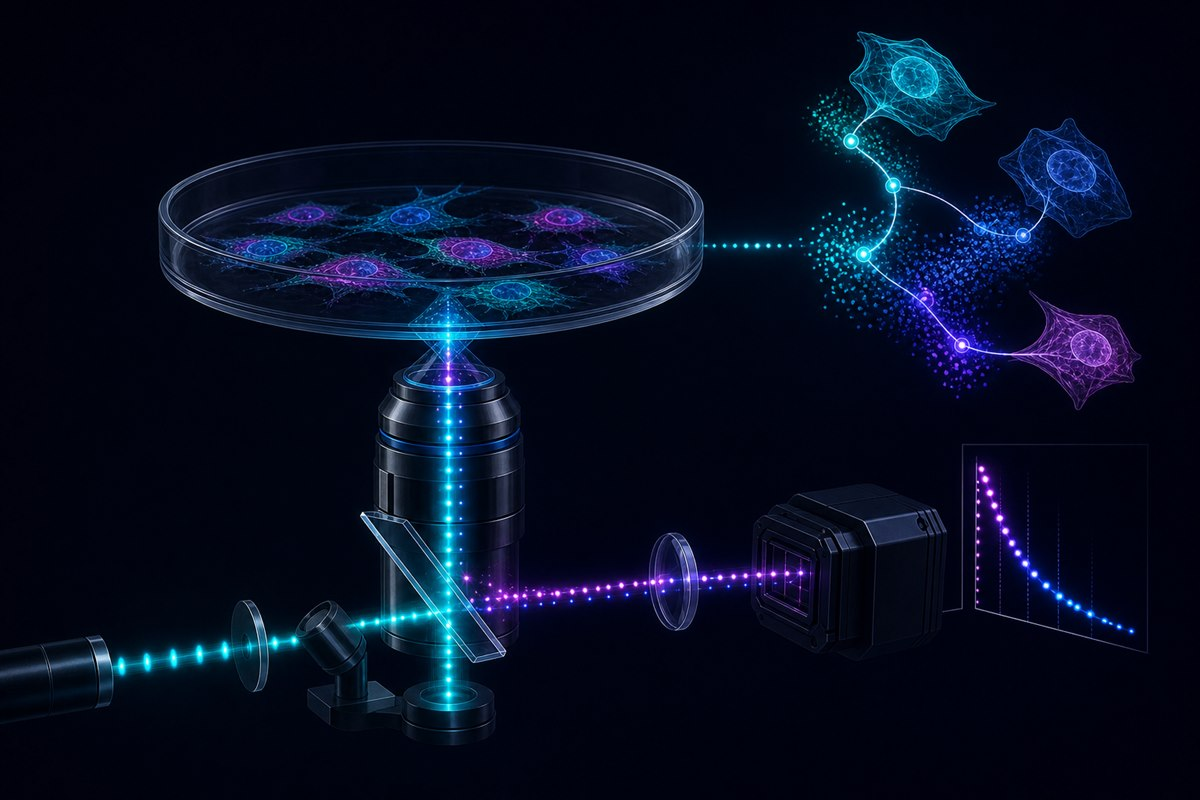
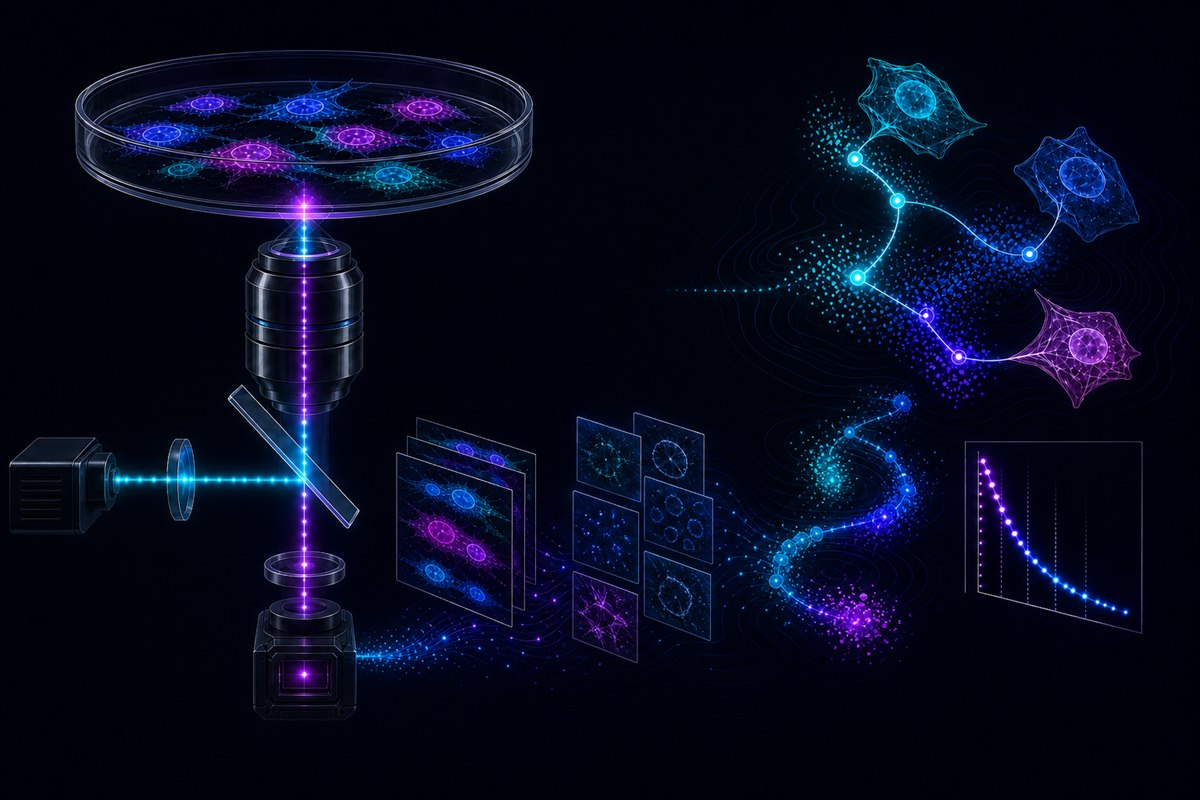
Update the microscopy figure to the version showing the full chain
The new illustration adds the intermediate image planes between camera and
analysis, so the card now depicts acquisition through segmentation and
tracking to a lifetime decay curve rather than jumping from detector straight
to result. Alt text and card copy follow the figure: the copy now names the
analysis alongside the optics, since the picture shows both.

Changed region(s): [[0.0, 0.0312, 0.9558, 0.9375]]

diff --git a/index.html b/index.html
@@ -83,11 +83,11 @@
         </article>
 
         <article class="tool">
-          <img class="toolfig" src="/assets/img/tool-microscopy.jpg" alt="A microscope light path: laser excitation reflects off a dichroic mirror up through the objective into a dish of living cells, the emission returns to the camera, and the recorded images are segmented and tracked over time" loading="lazy" />
+          <img class="toolfig" src="/assets/img/tool-microscopy.jpg" alt="A microscope light path: laser excitation reflects off a dichroic mirror up through the objective into a dish of living cells; the emission returns to the camera, and the recorded image stack is then segmented, tracked from cell to cell, and reduced to a fluorescence-lifetime decay curve" loading="lazy" />
           <div class="tool__body">
             <p class="tool__tag">Observe</p>
             <h3>Microscopy</h3>
-            <p>Imaging systems built for live, quantitative measurement — single-molecule, light-sheet, fluorescence-lifetime and structured-illumination approaches, often built in-house.</p>
+            <p>Imaging systems built in-house for live, quantitative measurement — single-molecule, light-sheet, fluorescence-lifetime and structured illumination — together with the analysis that turns a recording into numbers.</p>
           </div>
         </article>
 
